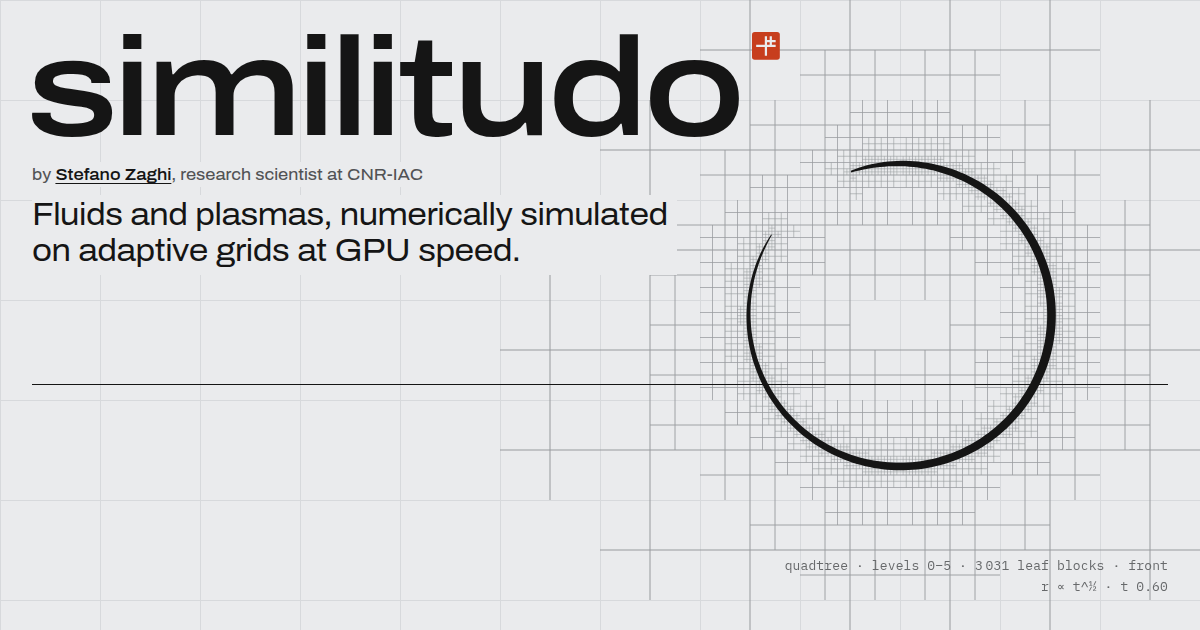
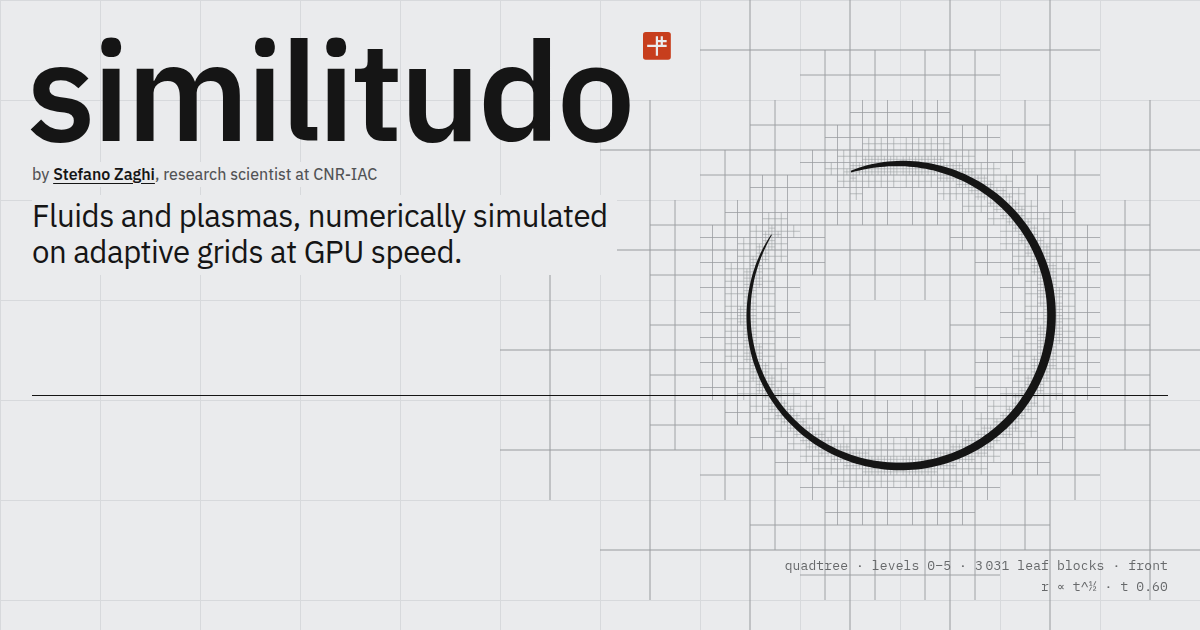
feat(theme): set the whole site in IBM Plex Sans
Inter body text read too large: its x-height is 0.546 em, so at 17 px
  it looks like 18-19 px in most faces. Archivo, stretched to 112-125%
  width, gave the headings an uneven texture: the stretch widens round
  letters about 25% but stems only 11%, and negative letter-spacing on
  top crowds the rounds while the stems stay loose.

  IBM Plex Sans now sets both headings and body, with the Plex Mono the
  labels already used, so headings, body and labels share one set of
  proportions. All font-stretch settings are gone, which also stops the
  layout reflowing when a fallback font has no width axis. Real italics
  are loaded: before, every <em> was Inter slanted by the browser.

  The phone wordmark's minimum size rises to keep its previous width with
  the narrower face, the headline no longer ends on a single word on
  phones, and the link-preview image is regenerated.

diff --git a/src/styles/global.css b/src/styles/global.css
@@ -1,5 +1,5 @@
 /* similitudo: sumi × architecture (docs/look-lab-brief.md, look B4). Architecture is the system, sumi is the accent:
-   cool-grey plaster / sumi-charcoal grounds, extended grotesk display, hairline rules, numbered indexes; one ink gesture (the blast
+   cool-grey plaster / sumi-charcoal grounds, IBM Plex Sans display and body (Plex Mono labels), hairline rules, numbered indexes; one ink gesture (the blast
    front over its refined quadtree) and one vermilion seal per screen. The seal is the only colour, in both themes.
    Neutrals: the warm look-B4 greys turned cool on 2026-11-13 ("hint"): same OKLCH lightness, hue 90° → 250°, 0.4× the
    chroma, so every contrast below is unchanged to ±0.1. The seal and link stay vermilion.
@@ -19,8 +19,8 @@
   --seal: #c73e1d;
   --link: #a8321a;
 
-  --f-body: 'Inter Variable', system-ui, -apple-system, 'Segoe UI', sans-serif;
-  --f-display: 'Archivo Variable', 'Inter Variable', system-ui, sans-serif;
+  --f-body: 'IBM Plex Sans Variable', system-ui, -apple-system, 'Segoe UI', Roboto, sans-serif;
+  --f-display: var(--f-body);
   --f-mono: 'IBM Plex Mono', ui-monospace, 'SFMono-Regular', Menlo, monospace;
 
   --gutter: 1rem;
@@ -104,16 +104,14 @@ code { font-family: var(--f-mono); font-size: 0.9em; background: var(--bg-alt); 
 .muted { color: var(--text-2); }
 .display {
   font-family: var(--f-display);
-  font-stretch: 125%;
   font-weight: 560;
   line-height: 0.85;
-  letter-spacing: -0.035em;
+  letter-spacing: -0.025em;
 }
 .statement {
   margin: 0;
   max-width: 30em;
   font-family: var(--f-display);
-  font-stretch: 112%;
   font-weight: 400;
   font-size: clamp(1.45rem, 3vw, 2.5rem);
   line-height: 1.18;
